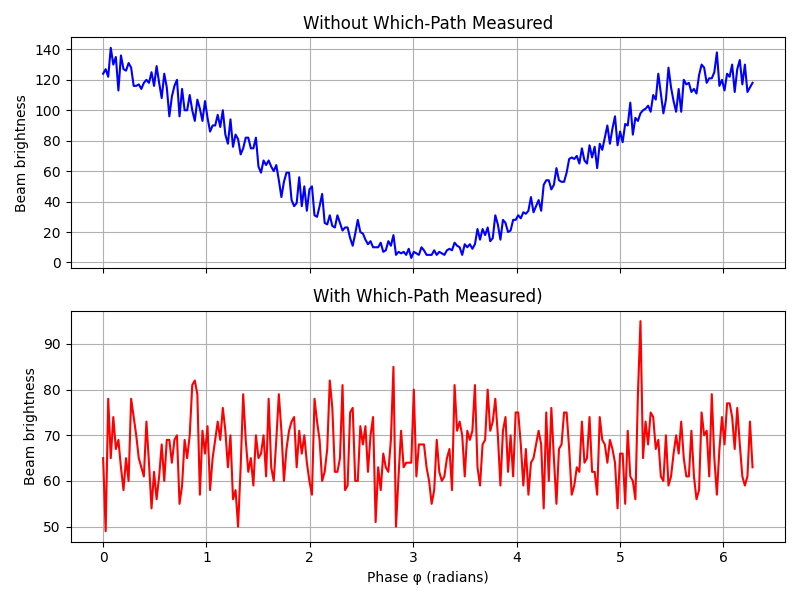
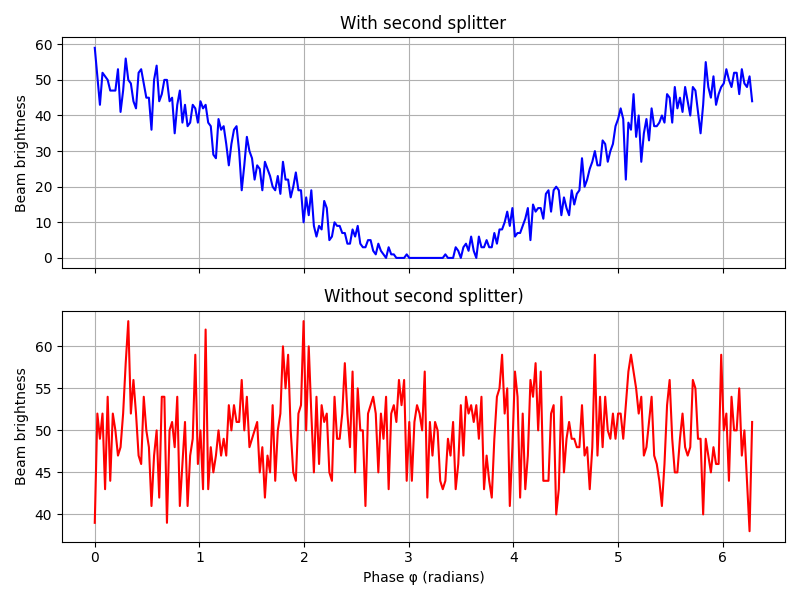
Add files via upload
Conditional second splitter simulation

Changed region(s): [[0.0, 0.54, 0.9688, 0.99], [0.0312, 0.03, 0.9688, 0.45], [0.375, 0.48, 0.6875, 0.51]]

diff --git a/MachZehnder.py b/MachZehnder.py
@@ -35,7 +35,7 @@ else:
     backend = service.least_busy(operational=True, simulator=False) 
     print(f"Using IBM hardware: {backend.name}")
 
-def MachZehnder(phi_values, num_shots, which_path=False):
+def MachZehnder(phi_values, num_shots, second_splitter=True):
     # Setup quantum circuit
     qr_beam1 = QuantumRegister(1, name = 'qr_beam1')
     qr_beam2 = QuantumRegister(1, name = 'qr_beam2')
@@ -45,12 +45,10 @@ def MachZehnder(phi_values, num_shots, which_path=False):
     phi_param = Parameter('phi')
     qc.h(qr_beam1)     # Prepare in superposition
     qc.cx(qr_beam1, qr_beam2)
-    # 'which-path' measurment that destroys the interference pattern 
-    if(which_path):
-        qc.measure(qr_beam1, cr_combined[0])
     qc.rz(phi_param, qr_beam1) # Apply phase shift
-    qc.h(qr_beam1)     # restore superposition on beam1
-    qc.h(qr_beam2)     # restore superposition on beam2
+    if (second_splitter):
+        qc.h(qr_beam1)     # restore superposition on beam1
+        qc.h(qr_beam2)     # restore superposition on beam2
     qc.measure([qr_beam1[0], qr_beam2[0]], [cr_combined[0], cr_combined[1]]) # Measure to obtain the interference pattern
 
     # Run the simulation
@@ -74,8 +72,8 @@ def MachZehnder(phi_values, num_shots, which_path=False):
 # Run simulation on the given array of phase shifts
 def RunSimulation(phis, samples=256):
 
-    counts_no_wp = MachZehnder(phi_values=phis, num_shots=samples, which_path=False)
-    counts_with_wp = MachZehnder(phi_values=phis, num_shots=samples, which_path=True)
+    counts_no_wp = MachZehnder(phi_values=phis, num_shots=samples, second_splitter=True)
+    counts_with_wp = MachZehnder(phi_values=phis, num_shots=samples, second_splitter=False)
     
     return counts_no_wp, counts_with_wp
 
@@ -83,15 +81,15 @@ def RunSimulation(phis, samples=256):
 def PlotResults(phis, counts_no_wp, counts_with_wp):
     fig, (ax1, ax2) = plt.subplots(nrows=2, figsize=(8, 6), sharex=True)
 
-    ax1.plot(phis, counts_no_wp, label="No which-path", color='blue')
+    ax1.plot(phis, counts_no_wp, label="With second splitter", color='blue')
     ax1.set_ylabel("Beam brightness")
-    ax1.set_title("Without Which-Path Measured")
+    ax1.set_title("With second splitter")
     ax1.grid(True)
 
-    ax2.plot(phis, counts_with_wp, label="With which-path", color='red')
+    ax2.plot(phis, counts_with_wp, label="Without second splitter", color='red')
     ax2.set_xlabel("Phase φ (radians)")
     ax2.set_ylabel("Beam brightness")
-    ax2.set_title("With Which-Path Measured)")
+    ax2.set_title("Without second splitter)")
     ax2.grid(True)
 
     plt.tight_layout()
